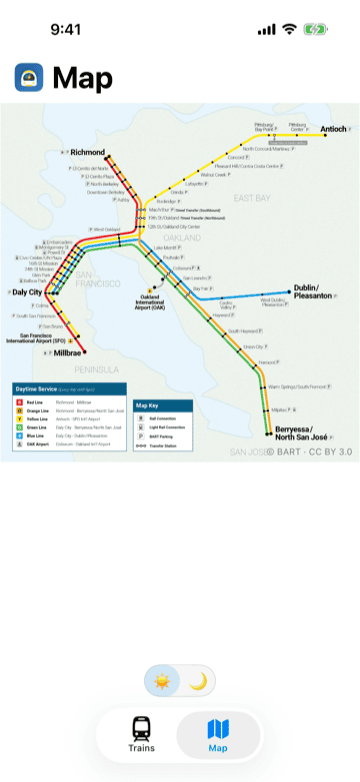
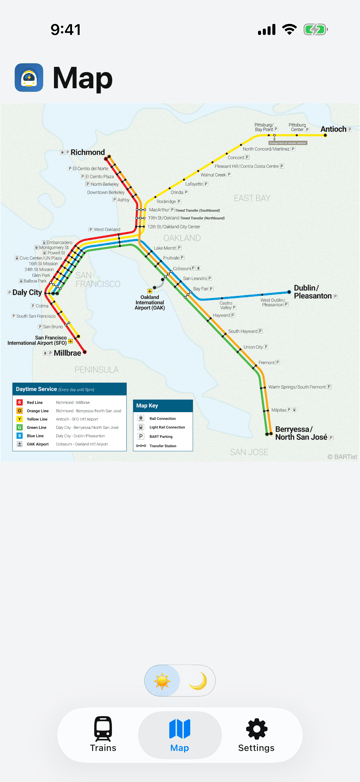
Dark mode blog post (#9)

diff --git a/public/dark-mode/index.html b/public/dark-mode/index.html
@@ -1,0 +1,44 @@
+<!DOCTYPE html>
+<html lang="en">
+<head>
+  <meta charset="utf-8">
+  <meta name="viewport" content="width=device-width, initial-scale=1">
+  <meta name="theme-color" content="#e3eef8">
+  <title>Dark mode, version 1.2</title>
+  <link rel="icon" href="/assets/favicon.svg" type="image/svg+xml">
+  <link rel="stylesheet" href="/assets/style.css">
+</head>
+<body>
+  <div class="app">
+    <header class="app-header">
+      <a class="brand" href="/">
+        <img class="brand-icon" src="/assets/bartist-icon.svg" width="32" height="32" alt="">
+        <span class="site-title">BARTist</span>
+      </a>
+    </header>
+    <main>
+<article>
+<h1>Dark mode, version 1.2</h1>
+<time datetime="2026-10-19">2026-10-19</time>
+<p>It&#39;s a dark day for BARTist. Version 1.2 is on the App Store and it adds the dark mode.</p>
+<p><a class="app-store" href="https://apps.apple.com/us/app/bartist/id6816738607"><img src="/assets/download-on-the-app-store.svg" alt="Download on the App Store" width="120" height="40"></a></p>
+
+<p>The <a href="../ios-native/">native rewrite</a> was a great start but had no option to reduce its bright light.</p>
+<p><img src="./bartist-trains-dark.png" alt="Train departures at Embarcadero in dark mode"></p>
+<p>Appearance now follows the mode selected in the system, or you can lock it to Light or Dark in the new Settings tab. The system maps have dark versions too!</p>
+<p><img src="./bartist-map-dark.png" alt="BART system map in dark mode"></p>
+<p>The new settings tab also has auto-refresh. Leave it on and the trains list updates every 30 seconds while that tab is open. Turn it off if you&#39;d rather pull to refresh yourself.</p>
+<p><img src="./bartist-settings-dark.png" alt="Settings in dark mode"></p>
+<p>There&#39;s an About page with the version, App Store / website / privacy links, and the license and map credits.</p>
+<p>No ads, accounts, subscriptions, tracking, or analytics. It&#39;s open source and the <a href="https://github.com/unix1/bartist">code is on GitHub</a>. Enjoy!</p>
+
+</article>
+    </main>
+    <footer class="app-footer">
+      <p>© BARTist</p>
+      <p><a href="/privacy/">privacy</a></p>
+      <p class="credit"><a href="https://blug.blog">blug.blog</a></p>
+    </footer>
+  </div>
+</body>
+</html>

diff --git a/public/index.html b/public/index.html
@@ -23,14 +23,15 @@
 
 <div class="screenshot-row">
 <a href="/bartist-trains.png"><img src="/bartist-trains-sm.png" alt="Train departures at Embarcadero" width="360" height="782"></a>
-<a href="/bartist-stations.png"><img src="/bartist-stations-sm.png" alt="Station picker" width="360" height="782"></a>
 <a href="/bartist-map.png"><img src="/bartist-map-sm.png" alt="BART system map" width="360" height="782"></a>
+<a href="/bartist-settings.png"><img src="/bartist-settings-sm.png" alt="Settings" width="360" height="782"></a>
 </div>
 
 <p>BARTist is open source. Contributions are welcome! Visit the <a href="https://github.com/unix1/bartist">BARTist GitHub repo</a>.</p>
 </section>
 <h1>News</h1>
 <ul class="post-list">
+  <li><a href="dark-mode/"><time datetime="2026-10-19">2026-10-19</time> <span>Dark mode, version 1.2</span></a></li>
   <li><a href="ios-native/"><time datetime="2026-10-15">2026-10-15</time> <span>Native iOS app, version 1.1</span></a></li>
   <li><a href="ios-app/"><time datetime="2026-10-08">2026-10-08</time> <span>BARTist is on the App Store!</span></a></li>
   <li><a href="history-android-qml/"><time datetime="2026-09-28">2026-09-28</time> <span>History: Android QML app</span></a></li>

diff --git a/scripts/config.js b/scripts/config.js
@@ -8,8 +8,8 @@ export const LISTING_INTRO = `BARTist is an app for real-time BART train departu
 
 <div class="screenshot-row">
 <a href="/bartist-trains.png"><img src="/bartist-trains-sm.png" alt="Train departures at Embarcadero" width="360" height="782"></a>
-<a href="/bartist-stations.png"><img src="/bartist-stations-sm.png" alt="Station picker" width="360" height="782"></a>
 <a href="/bartist-map.png"><img src="/bartist-map-sm.png" alt="BART system map" width="360" height="782"></a>
+<a href="/bartist-settings.png"><img src="/bartist-settings-sm.png" alt="Settings" width="360" height="782"></a>
 </div>
 
 BARTist is open source. Contributions are welcome! Visit the [BARTist GitHub repo](https://github.com/unix1/bartist).`;

diff --git a/public/dark-mode/index.md b/public/dark-mode/index.md
@@ -1,0 +1,24 @@
+---
+title: Dark mode, version 1.2
+date: 2026-10-19
+---
+
+It's a dark day for BARTist. Version 1.2 is on the App Store and it adds the dark mode.
+
+<p><a class="app-store" href="https://apps.apple.com/us/app/bartist/id6816738607"><img src="/assets/download-on-the-app-store.svg" alt="Download on the App Store" width="120" height="40"></a></p>
+
+The [native rewrite](../ios-native/) was a great start but had no option to reduce its bright light.
+
+![Train departures at Embarcadero in dark mode](./bartist-trains-dark.png)
+
+Appearance now follows the mode selected in the system, or you can lock it to Light or Dark in the new Settings tab. The system maps have dark versions too!
+
+![BART system map in dark mode](./bartist-map-dark.png)
+
+The new settings tab also has auto-refresh. Leave it on and the trains list updates every 30 seconds while that tab is open. Turn it off if you'd rather pull to refresh yourself.
+
+![Settings in dark mode](./bartist-settings-dark.png)
+
+There's an About page with the version, App Store / website / privacy links, and the license and map credits.
+
+No ads, accounts, subscriptions, tracking, or analytics. It's open source and the [code is on GitHub](https://github.com/unix1/bartist). Enjoy!
